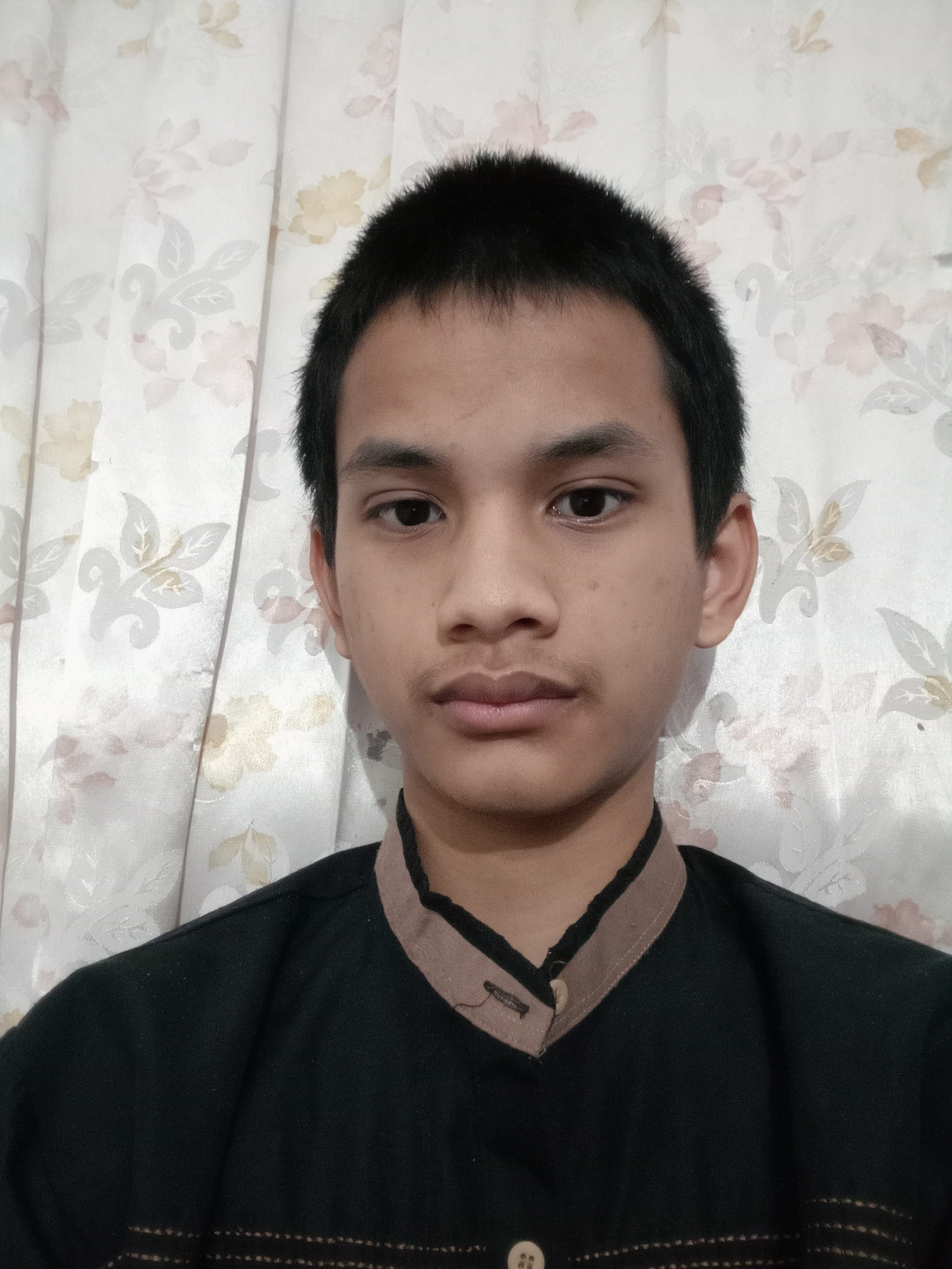
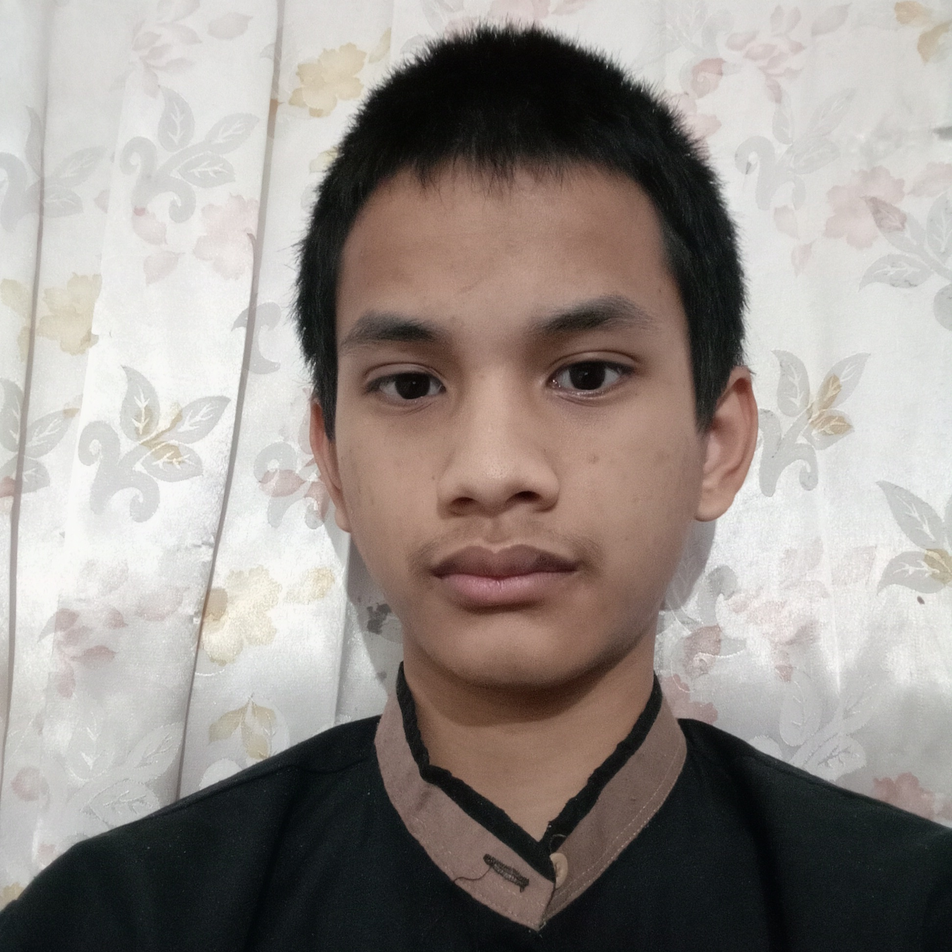
mengatur tinggi foto

diff --git a/about.html b/about.html
@@ -42,6 +42,9 @@
     p {
       text-align: justify;
     }
+    img {
+      height: 500px;
+    }
   </style>
 </head>
 
